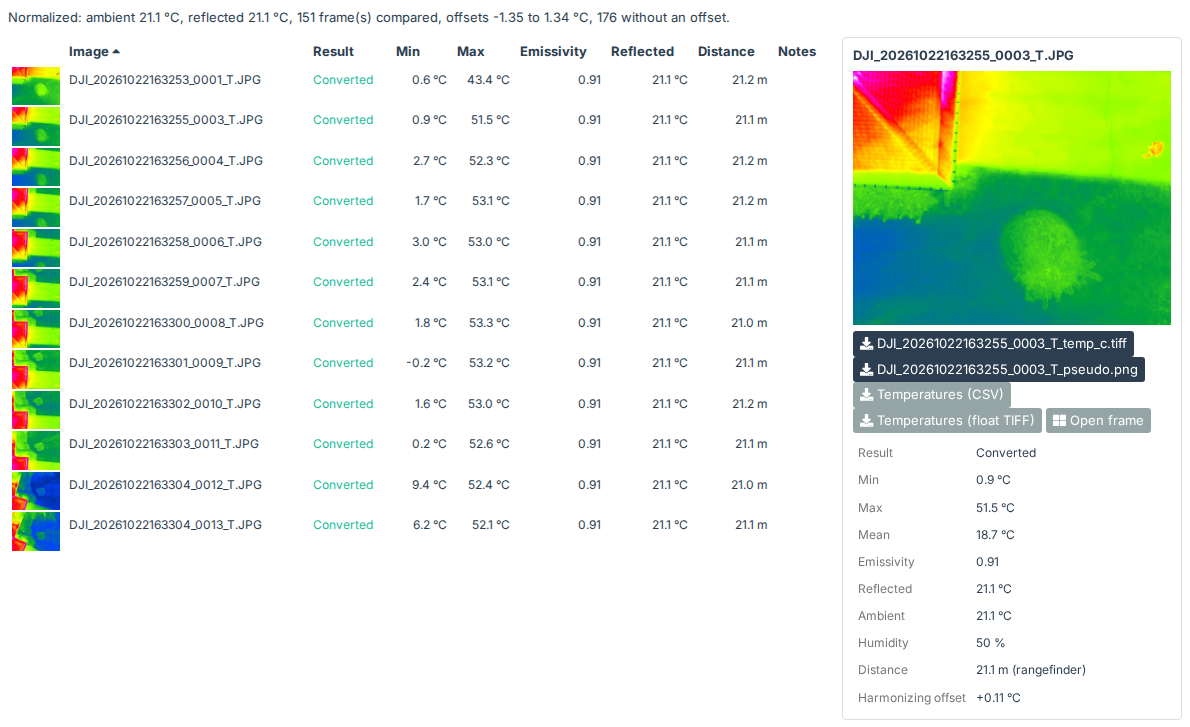
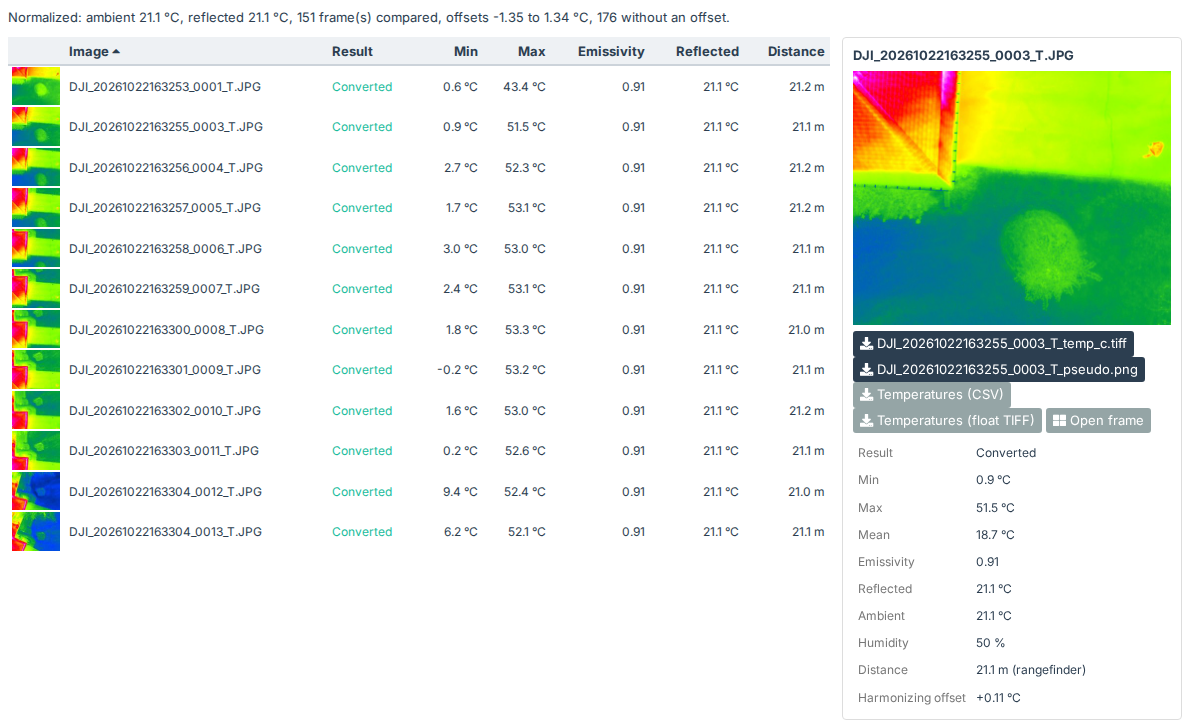
A workset's Files table keeps its shaded header in view as it scrolls, its figures' headings aligned with them, sortable either way by every column but the thumbnail; Notes only in the detail pane. The plan gains the two requests from new.md

diff --git a/dji-thermal/public/conversions.js b/dji-thermal/public/conversions.js
@@ -627,8 +627,8 @@
         return Object.keys(counts).map(function (r) { return [r, counts[r]]; }).sort(function (a, b) { return b[1] - a[1]; });
     }
 
-    var RESULT_COLUMNS = [{key: "path", label: "Image"}, {key: "result", label: "Result"}, {key: "min", label: "Min"}, {key: "max", label: "Max"},
-        {key: "emissivity", label: "Emissivity"}, {key: "reflected", label: "Reflected"}, {key: "distance", label: "Distance"}, {label: "Notes"}];
+    var RESULT_COLUMNS = [{key: "path", label: "Image"}, {key: "result", label: "Result"}, {key: "min", label: "Min", num: true},
+        {key: "max", label: "Max", num: true}, {key: "emissivity", label: "Emissivity", num: true}, {key: "reflected", label: "Reflected", num: true}, {key: "distance", label: "Distance", num: true}];
 
     // A conversion's images with their figures (c: the conversion as its detail has it, with its figures), sorted as
     // the view has them (view: {sort: a sortable RESULT_COLUMNS key, desc}; by image, ascending, at first)
@@ -677,11 +677,11 @@
         var sort = view.sort || "path", selected = view.selected || [];
         var rows = resultRows(c, view);
         var temp = function (v) { return esc(core.formatTemp(v, "C", 1)); };
-        html += '<div class="ta-files-layout"><div class="ta-files-table"><div class="ta-table-scroll"><table class="table table-condensed ta-results"><thead><tr>' +
+        html += '<div class="ta-files-layout"><div class="ta-files-table"><div class="ta-table-scroll ta-results-scroll"><table class="table table-condensed ta-results"><thead><tr>' +
             (view.thumbs ? "<th></th>" : "") + RESULT_COLUMNS.map(function (col) {
-                if (!col.key) return "<th>" + esc(col.label) + "</th>";
                 var arrow = sort === col.key ? ' <i class="fa fa-caret-' + (view.desc ? "down" : "up") + '"></i>' : "";
-                return '<th data-sort="' + col.key + '" title="Sort by ' + esc(col.label.toLowerCase()) + '">' + esc(col.label) + arrow + "</th>";
+                return '<th data-sort="' + col.key + '"' + (col.num ? ' class="ta-num"' : "") + ' title="Sort by ' + esc(col.label.toLowerCase()) + '">' +
+                    esc(col.label) + arrow + "</th>";
             }).join("") + "</tr></thead><tbody>" +
             rows.slice(0, RESULTS_SHOWN).map(function (f) {
                 return '<tr class="' + (f.ok ? "" : "ta-skipped") + (selected.indexOf(f.path) >= 0 ? " ta-selected" : "") + '" data-path="' + esc(f.path) + '">' +
@@ -690,8 +690,7 @@
                     (f.ok ? '<span class="text-success">Converted</span>' : '<span class="text-warning">Skipped</span>: ' + esc(f.reason)) +
                     '</td><td class="ta-num">' + temp(f.min) + '</td><td class="ta-num">' + temp(f.max) + '</td><td class="ta-num">' +
                     esc(core.formatNumber(f.emissivity, 2)) + '</td><td class="ta-num">' + temp(f.reflected) + '</td><td class="ta-num"' +
-                    (f.distance_source ? ' title="' + esc(f.distance_source) + '"' : "") + ">" + esc(core.formatNumber(f.distance, 1, " m")) + "</td><td>" +
-                    esc((f.notes || []).join("; ")) + "</td></tr>";
+                    (f.distance_source ? ' title="' + esc(f.distance_source) + '"' : "") + ">" + esc(core.formatNumber(f.distance, 1, " m")) + "</td></tr>";
             }).join("") + "</tbody></table></div>";
         if (files.length > RESULTS_SHOWN) html += '<p class="text-muted">And ' + (files.length - RESULTS_SHOWN) + " more: download all to see them.</p>";
         html += '</div><aside class="ta-file-detail" hidden></aside></div>';

diff --git a/dji-thermal/public/__tests__/analyzer.test.js b/dji-thermal/public/__tests__/analyzer.test.js
@@ -1443,7 +1443,7 @@ describe("a dataset's conversions", () => {
             figures_status: "ready"});
         document.body.innerHTML = conversions.resultsHtml(c, "/x/", {thumbs: "/thumb?file="});
         const cells = [...document.querySelectorAll(".ta-results tbody td")].map(td => td.textContent);
-        expect(cells).toEqual(["", "a_T.JPG", "Converted", "10.0 °C", "41.3 °C", "0.95", "19.4 °C", "16.4 m", ""]);
+        expect(cells).toEqual(["", "a_T.JPG", "Converted", "10.0 °C", "41.3 °C", "0.95", "19.4 °C", "16.4 m"]);
         expect(document.querySelector(".ta-thumb img").getAttribute("src")).toBe("/thumb?file=a_T.JPG");
         expect(document.querySelector(".ta-figures-progress")).toBeNull();
         expect(conversions.resultsHtml(Object.assign({}, c, {figures: {}, figures_status: "measuring", figures_progress: 0.4}), "/x/"))
@@ -1677,8 +1677,8 @@ describe("a dataset's conversions", () => {
         expect(window.localStorage.getItem("dji-thermal-analyzer:files-shown:5")).toBeNull();
     });
 
-    it("sorts a workset's files by image or result, ascending or descending", () => {
-        const c = Object.assign({}, CONVERSION, {results: {files: [
+    it("sorts a workset's files by any column but the thumbnail, ascending or descending, the figures' headers aligned with them", () => {
+        const c = Object.assign({}, CONVERSION, {figures: {"a_T.JPG": {max: 30}, "b_T.JPG": {max: 50}}, results: {files: [
             {path: "b_T.JPG", ok: true, outputs: ["b.tiff"], notes: []},
             {path: "c_T.JPG", ok: false, reason: "not thermal", outputs: [], notes: []},
             {path: "a_T.JPG", ok: true, outputs: ["a.tiff"], notes: []}]}});
@@ -1689,9 +1689,12 @@ describe("a dataset's conversions", () => {
         expect(order()).toEqual(["a_T.JPG", "b_T.JPG", "c_T.JPG"]);
         expect(order({sort: "path", desc: true})).toEqual(["c_T.JPG", "b_T.JPG", "a_T.JPG"]);
         expect(order({sort: "result", desc: true})).toEqual(["c_T.JPG", "b_T.JPG", "a_T.JPG"]);
-        expect([...document.querySelectorAll(".ta-results th")].map(th => th.getAttribute("data-sort")))
-            .toEqual(["path", "result", "min", "max", "emissivity", "reflected", "distance", null]);
         expect(document.querySelector('.ta-results th[data-sort="result"] .fa-caret-down')).not.toBeNull();
+        expect(order({sort: "max", desc: true})).toEqual(["b_T.JPG", "a_T.JPG", "c_T.JPG"]);
+        expect([...document.querySelectorAll(".ta-results th")].map(th => th.getAttribute("data-sort")))
+            .toEqual(["path", "result", "min", "max", "emissivity", "reflected", "distance"]);
+        expect([...document.querySelectorAll(".ta-results th.ta-num")].map(th => th.getAttribute("data-sort")))
+            .toEqual(["min", "max", "emissivity", "reflected", "distance"]);
     });
 });
 

diff --git a/dji-thermal/public/analyzer.css b/dji-thermal/public/analyzer.css
@@ -222,7 +222,13 @@
 .ta-page .ta-task-message:not(:empty){ margin-top: 6px; }
 .ta-page .ta-results td{ font-size: 12px; }
 .ta-page .ta-results tr.ta-skipped td{ opacity: .7; }
-.ta-page .ta-results td.ta-num{ text-align: right; white-space: nowrap; }
+.ta-page .ta-results td{ vertical-align: middle; }
+.ta-page .ta-results td.ta-num, .ta-page .ta-results th.ta-num{ text-align: right; white-space: nowrap; }
+/* A workset's Files scroll in their own box, so their header stays in view above them */
+.ta-page .ta-results-scroll{ max-height: calc(100vh - 80px); overflow: auto; }
+.ta-page .ta-results thead th{ position: sticky; top: 0; z-index: 1; background: #eef1f4; border-bottom: 0; box-shadow: inset 0 -2px 0 #ccd3da;
+    cursor: pointer; white-space: nowrap; vertical-align: middle; }
+.ta-page .ta-results thead th:not([data-sort]){ cursor: default; }
 .ta-page .ta-figures-progress{ font-size: 12px; }
 
 .ta-page .ta-mosaic-status{ margin-top: 4px; font-size: 13px; }

diff --git a/upcoming-changes.md b/upcoming-changes.md
@@ -5,6 +5,36 @@
 **Up next**
 - **The user's testing and polishing** (2026-10-30): bugs and polish they report go here, each fixed on its own
   branch. Publishing 1.0.0 waits for it.
+  - Next: **removing frames from a workset** (the user, 2026-11-02, from `new.md`): "on the Files view detail pane
+    for a image in a Workset, add the ability to delete a file from the workset; or multiple if more than one
+    selected. This allows the user to manually remove files that are more noise than they desire. Then they can
+    create new mosaics and tasks from the reduced file set if they so please." Builds on the workset's Files detail
+    pane and its selection (`conversions.js` `resultDetailHtml`, `downloadSelected`). What the code does now: a task
+    from the workset takes every ok frame's TIFF in `results.json` (`conversion_tasks.tiffs`), so marking a frame
+    removed there leaves it out of new tasks; but the mosaics are built from all the dataset's photos
+    (`mosaics.build`: `dtc.scan(root).jpegs`), so they need to be limited to the workset's kept frames. Proposed: a
+    **Remove from workset** button in the pane (for one or the selection), with a confirmation naming how many; it
+    deletes those frames' outputs from the workset's folder and records them in `results.json` as removed (by whom,
+    when), needing the right to change the project (as deleting a workset); the figures stay with them; tasks already
+    made keep their images. Open decisions: what the table shows of a removed frame (its row greyed as "Removed",
+    or gone, counted in the summary line); what happens to mosaics built before (kept, marked "built with frames
+    since removed", with Build again; or deleted); saved frame measurements on a removed frame (deleted with it, or
+    kept).
+  - Next: **a workset's Mosaics in a section of their own** (the user, 2026-11-02, from `new.md`): "On the Files view
+    in a workset, move the Mosaics download links out of the Files section into their own collapsible section below
+    Files." Now `resultsHtml` lists `mosaic_files` at the end of the Files section, seen only once Files is open.
+    Proposed: a **Mosaics** heading below Files, collapsed at first and remembered in the browser as Files is
+    (`FILES_PREFIX`), with the file count in the heading and shown only when the workset has mosaics. No open
+    decision.
+  - Done: **a workset's Files table: its header in view, aligned and sortable** (the user, 2026-11-02, with a
+    screenshot: "Make the Files table header row sticky ... Shade the background of the header row ... Align the
+    column contents with the header row ... Each column should be sortable ascending/descending where sensible.
+    Remove the Notes column."), `workset-files-header`. The table scrolls in its own box (`.ta-results-scroll`, as
+    tall as the window) so its header can stick (the page's horizontal scroll box would stop it otherwise); the header
+    shaded; the figures' headings right-aligned like their values, cells centred vertically beside the thumbnails;
+    every column but the thumbnail sorts either way; Notes gone (still in the detail pane). `conversions.js`
+    (`RESULT_COLUMNS`), `analyzer.css`. README, `quickstart-worksets.md`, `workset-files.png` retaken. Jest (the sort
+    and alignment test). Live (read only, thumbnails blocked): Thermal - 9/18/2026, scrolled 1500 px, sorted by Max.
   - Done: **a workset's Files: more figures, thumbnails and a detail pane** (the user, 2026-11-02, with a screenshot of a
     workset's Files table: "should show more file information such as emissivity, background temp, temperature
     min/max ... a thumbnail view of the image to the left of the filename. When you select an image, a detail pane on

diff --git a/docs/quickstart-worksets.md b/docs/quickstart-worksets.md
@@ -42,8 +42,8 @@ Each workset is listed with the settings it changed, how many images it converte
 ![A converted workset](images/workset.png)
 
 - **Files** opens a table of each image: its thumbnail, result, minimum and maximum temperature, emissivity,
-  reflected temperature and distance as the workset measured them, and why any image was skipped. Click a heading to
-  sort by it. The detail pane beside it shows the image under the mouse, or the one you click: the frame at its own
+  reflected temperature and distance as the workset measured them, and why any image was skipped. Its headings stay
+  in view as it scrolls; click one to sort by it, and again to reverse the order. The detail pane beside it shows the image under the mouse, or the one you click: the frame at its own
   size (click it for the picture viewer), all it was measured with, the workset's files for it, its temperatures as
   CSV or a float TIFF, and **Open frame**. Ctrl/Cmd-click or Shift-click selects several images, to download their
   files as one zip. The figures are measured once, after the workset converts; an older workset's are measured the

diff --git a/README.md b/README.md
@@ -167,7 +167,7 @@ closed. A chip marked **≠ plan** differs from the WebODM plan's settings (hove
 
 Each workset is kept beside the others, with what it changed from the defaults, its **Files** (a table, closed at
 first and remembered in your browser, of each image with its thumbnail, result, minimum and maximum temperature,
-emissivity, reflected temperature and distance as the workset measured it, and why any was skipped, sortable by each),
+emissivity, reflected temperature and distance as the workset measured it, and why any was skipped, sortable by each either way, its headings in view as it scrolls),
 **Download all** (a zip), and **Rename** and **Delete** in its menu. Beside the table, a detail pane shows the image
 under the mouse, or the one clicked: the frame at its own size, all it was measured with, and its downloads (the
 workset's files, its temperatures as CSV or a float TIFF, and Open frame). Ctrl/Cmd-click or Shift-click selects
